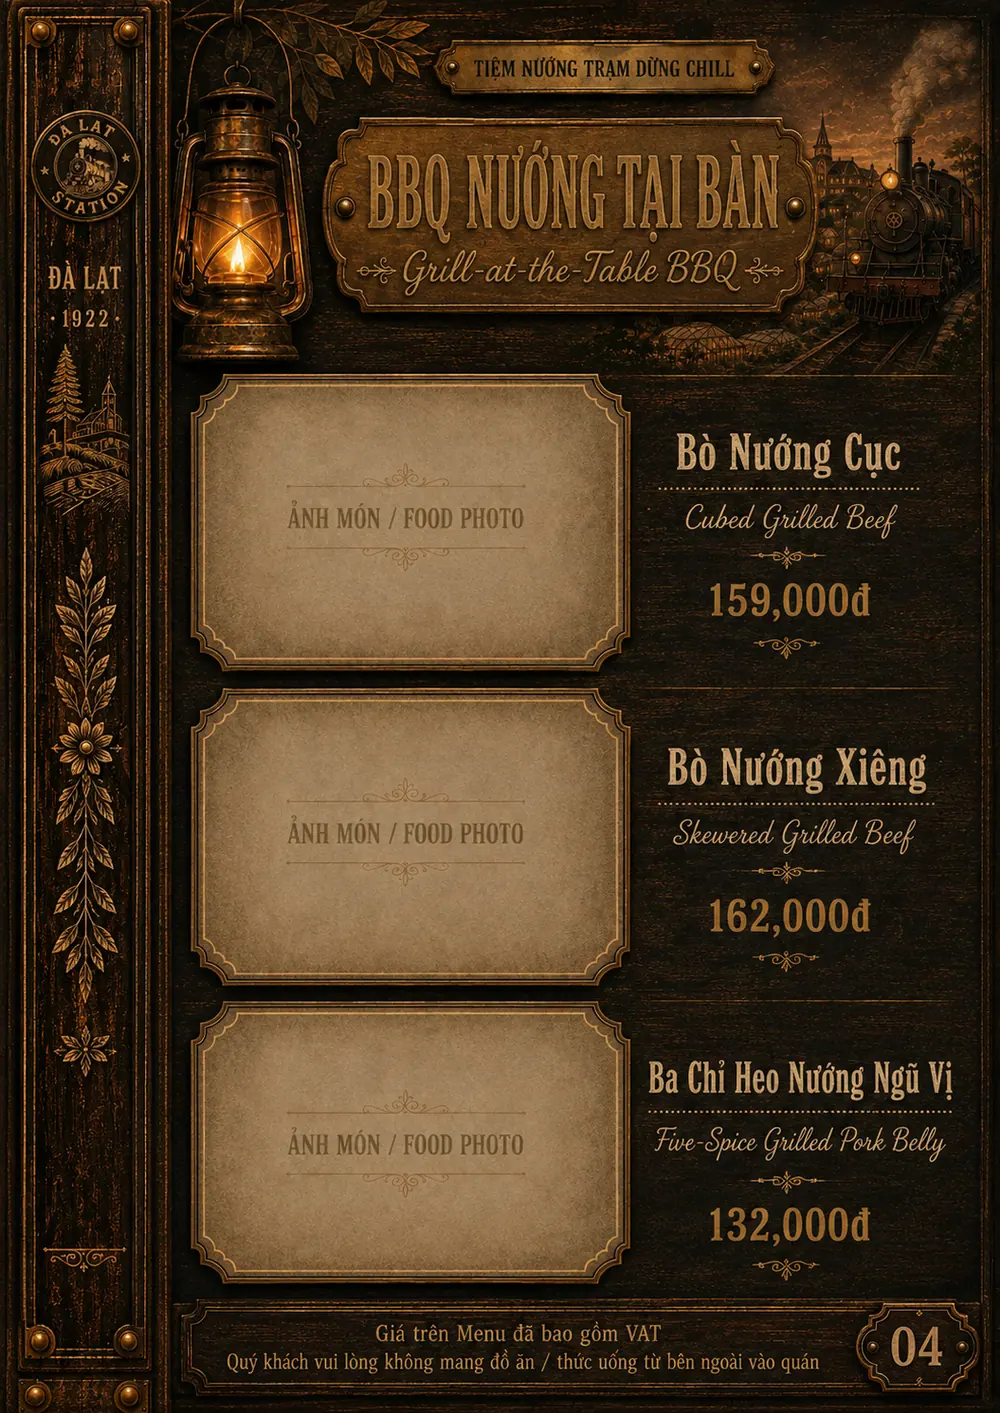
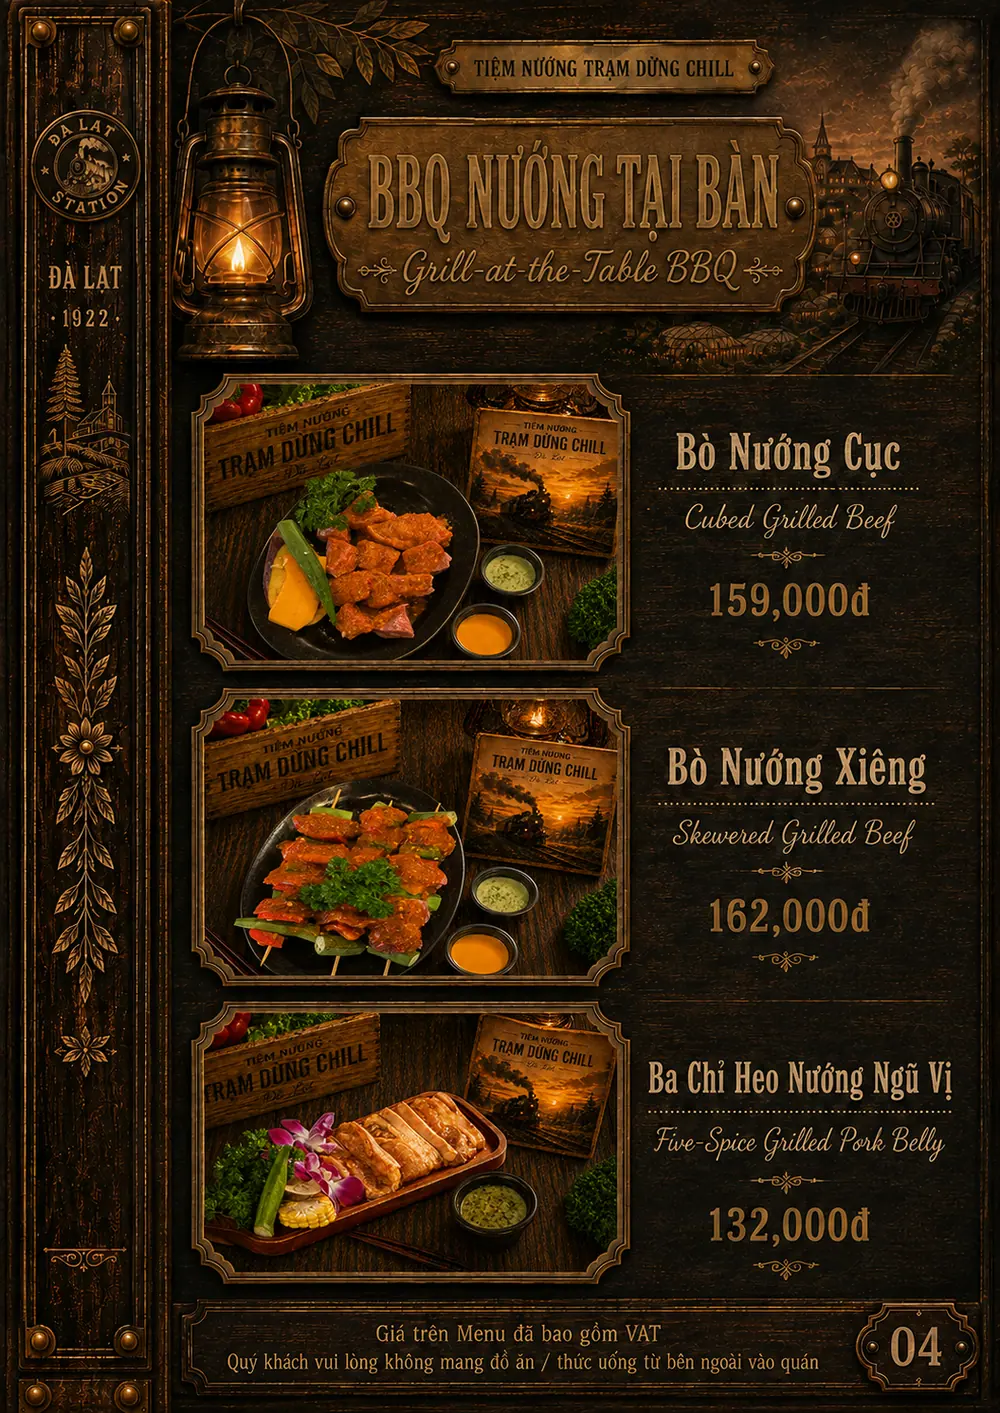
feat(menu): trang BBQ 04 co anh mon + sua gia xuc xich Duc ve 20K/cay
Sep Tuan gui hai trang moi:
- Trang 5 (menu so 04) BBQ NUONG TAI BAN: da co anh that cho Bo Nuong Cuc,
  Bo Nuong Xieng, Ba Chi Heo Nuong Ngu Vi — het o "ANH MON / FOOD PHOTO" trong.
- Trang 11 (menu so 10) MON LAI RAI: ban moi ghi Xuc Xich Duc Nuong
  "20,000d/cay", khac ban hom qua ghi 30,000d.

Sua data/menu-data.js theo ban moi: 30K -> 20K. Day chinh la con so ban dau
truoc khi dong bo menu in ngay 04/08 — ban in cu ghi 30K nen luc do sua len,
gio ban in moi ghi lai 20K/cay. Gia trong JSON-LD gui Google da thanh 20000.
Ten mon giu nguyen, don vi "/cay" chi nam tren anh menu.

Chi 6 file webp doi (2 trang x 3 co). Van tay ?v= tu doi theo noi dung nen
khong can bump CACHE_NAME.

seo-geo-verify: 32/32 PASS · check-facts: SACH

diff --git a/menu.html b/menu.html
@@ -515,7 +515,7 @@
                     "name": "Xúc Xích Đức Nướng",
                     "offers": {
                         "@type": "Offer",
-                        "price": "30000",
+                        "price": "20000",
                         "priceCurrency": "VND",
                         "availability": "https://schema.org/InStock"
                     }
@@ -1226,8 +1226,8 @@
                     <figcaption class="flip-page-caption">Trang 4/26 — Best Seller</figcaption>
                 </figure>
                 <figure class="flip-page" data-page="5" data-group="nuong" data-group-label="BBQ Nướng Tại Bàn" data-group-i18n="flip.group.bbq">
-                    <img src="assets/menu-pages/menu-quan-nuong-da-lat-05-bbq-nuong-tai-ban-bo-nuong-cuc-bo-xien-1000.webp?v=0707533a"
-                         srcset="assets/menu-pages/menu-quan-nuong-da-lat-05-bbq-nuong-tai-ban-bo-nuong-cuc-bo-xien-560.webp?v=a63ed071 560w, assets/menu-pages/menu-quan-nuong-da-lat-05-bbq-nuong-tai-ban-bo-nuong-cuc-bo-xien-1000.webp?v=0707533a 1000w"
+                    <img src="assets/menu-pages/menu-quan-nuong-da-lat-05-bbq-nuong-tai-ban-bo-nuong-cuc-bo-xien-1000.webp?v=800d3fe3"
+                         srcset="assets/menu-pages/menu-quan-nuong-da-lat-05-bbq-nuong-tai-ban-bo-nuong-cuc-bo-xien-560.webp?v=161923b9 560w, assets/menu-pages/menu-quan-nuong-da-lat-05-bbq-nuong-tai-ban-bo-nuong-cuc-bo-xien-1000.webp?v=800d3fe3 1000w"
                          sizes="(min-width: 900px) 46vw, 92vw"
                          width="1055" height="1491"
                          alt="Thực đơn BBQ nướng tại bàn Đà Lạt: bò nướng cục, bò nướng xiên, ba chỉ heo nướng ngũ vị"
@@ -1280,8 +1280,8 @@
                     <figcaption class="flip-page-caption">Trang 10/26 — Lẩu</figcaption>
                 </figure>
                 <figure class="flip-page" data-page="11" data-group="laurai" data-group-label="Món Lai Rai" data-group-i18n="flip.group.snacks">
-                    <img src="assets/menu-pages/menu-quan-nuong-da-lat-11-mon-lai-rai-dau-hu-non-bo-luc-lac-1000.webp?v=e74067e0"
-                         srcset="assets/menu-pages/menu-quan-nuong-da-lat-11-mon-lai-rai-dau-hu-non-bo-luc-lac-560.webp?v=8bc254a6 560w, assets/menu-pages/menu-quan-nuong-da-lat-11-mon-lai-rai-dau-hu-non-bo-luc-lac-1000.webp?v=e74067e0 1000w"
+                    <img src="assets/menu-pages/menu-quan-nuong-da-lat-11-mon-lai-rai-dau-hu-non-bo-luc-lac-1000.webp?v=63496e09"
+                         srcset="assets/menu-pages/menu-quan-nuong-da-lat-11-mon-lai-rai-dau-hu-non-bo-luc-lac-560.webp?v=3c97deab 560w, assets/menu-pages/menu-quan-nuong-da-lat-11-mon-lai-rai-dau-hu-non-bo-luc-lac-1000.webp?v=63496e09 1000w"
                          sizes="(min-width: 900px) 46vw, 92vw"
                          width="1055" height="1491"
                          alt="Món lai rai nhâm nhi: đậu hũ non chiên chà bông, xúc xích Đức nướng, bò lúc lắc"
@@ -1496,7 +1496,7 @@
 <h3>Món Lai Rai</h3>
 <ul>
 <li>Đậu Hũ Non Chiên Chà Bông — 145.000đ</li>
-<li>Xúc Xích Đức Nướng — 30.000đ</li>
+<li>Xúc Xích Đức Nướng — 20.000đ</li>
 <li>Bò Lúc Lắc — 160.000đ</li>
 <li>Sụn Gà Chiên Mắm — 145.000đ</li>
 <li>Vú Heo Cháy Tỏi — 155.000đ</li>

diff --git a/data/menu-data.js b/data/menu-data.js
@@ -83,7 +83,7 @@ const MENU_ITEMS = {
 
     laurai: [
         { name: 'Đậu Hũ Non Chiên Chà Bông', price: '145K' },
-        { name: 'Xúc Xích Đức Nướng', price: '30K' },
+        { name: 'Xúc Xích Đức Nướng', price: '20K' },
         { name: 'Bò Lúc Lắc', price: '160K' },
         { name: 'Sụn Gà Chiên Mắm', price: '145K' },
         { name: 'Vú Heo Cháy Tỏi', price: '155K' },
